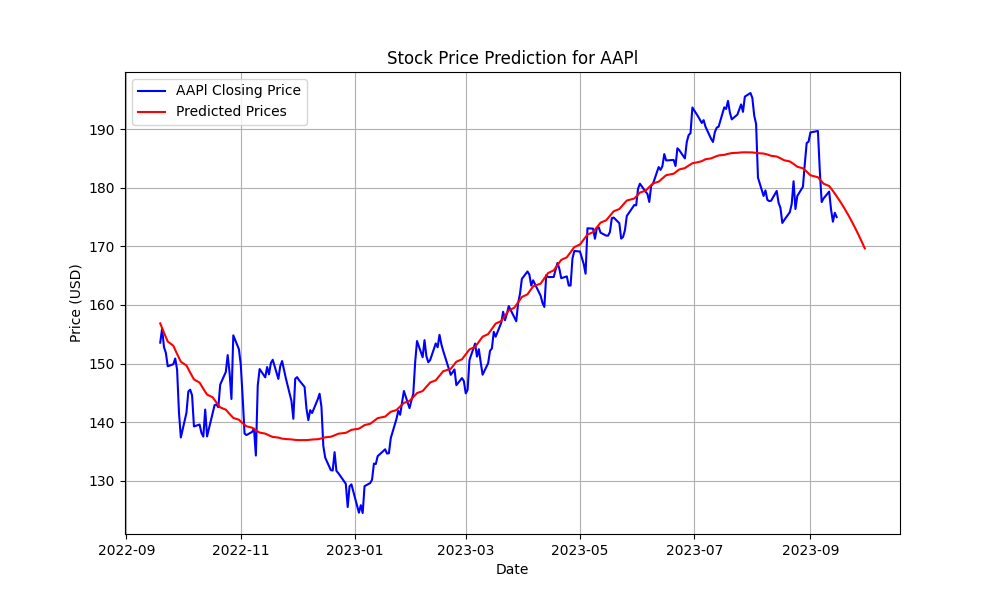
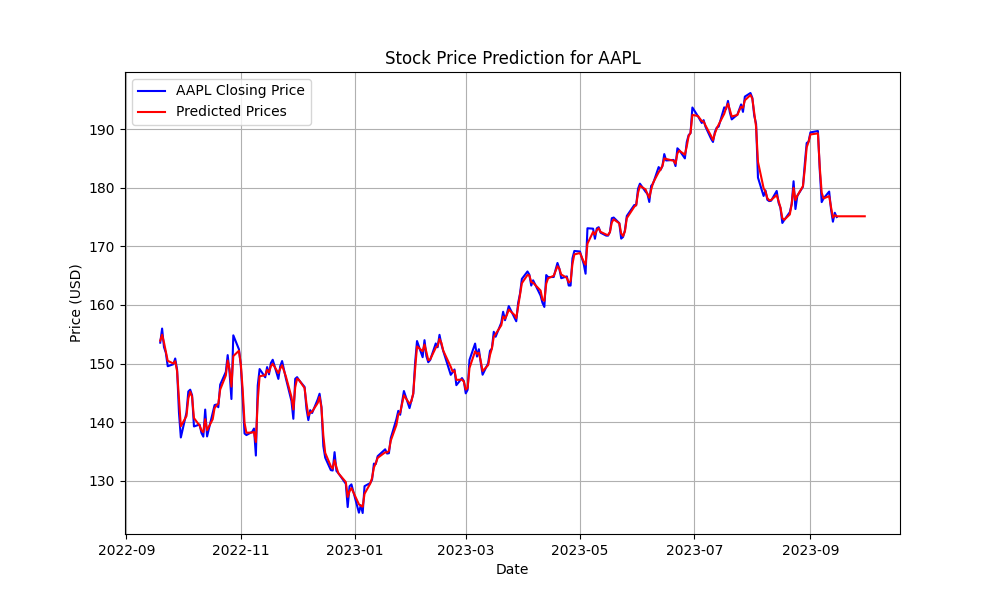
Added Random Forest Regressor model

diff --git a/templates/index.html b/templates/index.html
@@ -3,14 +3,27 @@
 <head>
     <meta charset="UTF-8">
     <title>Stock Graph</title>
+    <link rel="stylesheet" href="{{ url_for('static', filename='styles.css') }}">
 </head>
 <body>
-    <h1>Stock Price Graph</h1>
+    <h1>Stock Price Predictor</h1>
     <form method="POST">
         <label for="stock_symbol">Enter Stock Symbol:</label>
         <input type="text" id="stock_symbol" name="stock_symbol" required>
+        <label for="model">Select Model:</label>
+        <select id="model" name="model">
+            <option value="Linear Regression">Linear Regression</option>
+            <option value="Random Forest">Random Forest</option>
+            <option value="LSTM">LSTM</option>  
+        </select>
         <input type="submit" value="Submit">
     </form>
-    <img src="{{ url_for('static', filename='graph.png') }}" alt="Graph">
+    <div class="stock-info">
+        <p>Current Price: £{{ current_price }}</p>
+        <p class="predicted-price">Predicted Price: £{{ predicted_price }}</p>
+    </div>
+    <div class="graph-container">
+        <img src="{{ url_for('static', filename='graph.png') }}" alt="Graph">
+    </div>
 </body>
 </html>

diff --git a/static/styles.css b/static/styles.css
@@ -1,0 +1,50 @@
+body {
+    font-family: Arial, sans-serif;
+    background-color: #f0f0f0;
+    margin: 0;
+    padding: 0;
+}
+
+h1 {
+    text-align: center;
+    color: #333;
+}
+
+form {
+    text-align: center;
+    margin-top: 20px;
+}
+
+label {
+    font-size: 18px;
+    color: #333;
+}
+
+input[type="text"] {
+    padding: 10px;
+    font-size: 16px;
+}
+
+input[type="submit"] {
+    padding: 10px 20px;
+    background-color: #007bff;
+    color: #fff;
+    font-size: 18px;
+    border: none;
+    cursor: pointer;
+}
+
+.stock-info {
+    text-align: center;
+    font-size: 24px;
+    margin-top: 20px;
+}
+
+.predicted-price {
+    color: #e91e63;
+}
+
+.graph-container {
+    text-align: center;
+    margin-top: 20px;
+}

diff --git a/app.py b/app.py
@@ -8,11 +8,19 @@ import base64
 import datetime
 from sklearn.preprocessing import PolynomialFeatures
 from sklearn.linear_model import LinearRegression
+from sklearn.ensemble import RandomForestRegressor  
 import numpy as np
+
 
 app = Flask(__name__)
 
-def generate_and_save_stock_graph(stock_symbol):
+# Create a dictionary to map model names to their corresponding model objects
+models = {
+    "Linear Regression": LinearRegression(),
+    "Random Forest": RandomForestRegressor(n_estimators=100, random_state=42),  # Example model
+}
+
+def generate_and_save_stock_graph(stock_symbol, selected_ml_model):
     end_date = datetime.date.today()
     start_date = end_date - datetime.timedelta(days=365)
 
@@ -28,25 +36,28 @@ def generate_and_save_stock_graph(stock_symbol):
     poly = PolynomialFeatures(degree=3)
     X_poly = poly.fit_transform(days)
 
-    # Create and train a Polynomial Regression model for historical data
-    model = LinearRegression()
+    # Create and train the selected machine learning model for historical data
+    model = selected_ml_model
     model.fit(X_poly, closing_prices)
 
     # Generate dates for historical data and prediction (e.g., extending for 15 days ahead)
     all_dates = stock_data.index
-    future_dates = [all_dates[-1] + datetime.timedelta(days=i) for i in range(1, 16)]  # Extend for 15 days ahead
+    future_dates = [all_dates[-1] + datetime.timedelta(days=i) for i in range(1, 6)]  # Extend for 15 days ahead
     
     # Create a continuous range of days for the entire graph, including future dates
-    all_days = np.arange(0, len(days) + 15).reshape(-1, 1)
+    all_days = np.arange(0, len(days) + 5).reshape(-1, 1)
     all_X_poly = poly.transform(all_days)
     all_y_pred = model.predict(all_X_poly)
+
+    # Calculate the predicted prices for the future dates
+    future_y_pred = all_y_pred[len(days):]
 
     # Plot historical stock prices
     plt.figure(figsize=(10, 6))
     plt.plot(all_dates, closing_prices, label=f'{stock_symbol} Closing Price', color='blue')
 
     # Plot the polynomial regression model line throughout the entire graph
-    plt.plot(np.concatenate((all_dates, future_dates)), np.concatenate((all_y_pred[:len(days)], all_y_pred[len(days):])), label='Predicted Prices', color='red')
+    plt.plot(np.concatenate((all_dates, future_dates)), np.concatenate((all_y_pred[:len(days)], future_y_pred)), label='Predicted Prices', color='red')
 
     plt.xlabel('Date')
     plt.ylabel('Price (USD)')
@@ -60,19 +71,33 @@ def generate_and_save_stock_graph(stock_symbol):
     plt.close()
 
     img_base64 = base64.b64encode(img.read()).decode()
-    return img_base64
+    
+    # Get the current price and round it to 2 decimal places
+    current_price = round(stock_data["Close"].iloc[-1], 2)
+
+    # Get the predicted price and round it to 2 decimal places
+    predicted_price = round(all_y_pred[-1], 2)
+
+    return img_base64, current_price, predicted_price
 
 @app.route('/', methods=['GET', 'POST'])
 def index():
     stock_symbol = "AAPL"  # Default stock symbol
     img_data = None
+    current_price = None
+    predicted_price = None
 
     if request.method == 'POST':
         stock_symbol = request.form['stock_symbol']
-    
-    img_data = generate_and_save_stock_graph(stock_symbol)
+        selected_model = request.form['model']  # Retrieve the selected model
+        
+        # Get the selected machine learning model from the dictionary
+        selected_ml_model = models[selected_model]
 
-    return render_template('index.html', img_data=img_data)
+        # Generate the graph and update predicted prices using the selected model
+        img_data, current_price, predicted_price = generate_and_save_stock_graph(stock_symbol, selected_ml_model)
+
+    return render_template('index.html', img_data=img_data, current_price=current_price, predicted_price=predicted_price)
 
 if __name__ == '__main__':
     app.run(port=8000, debug=True)
